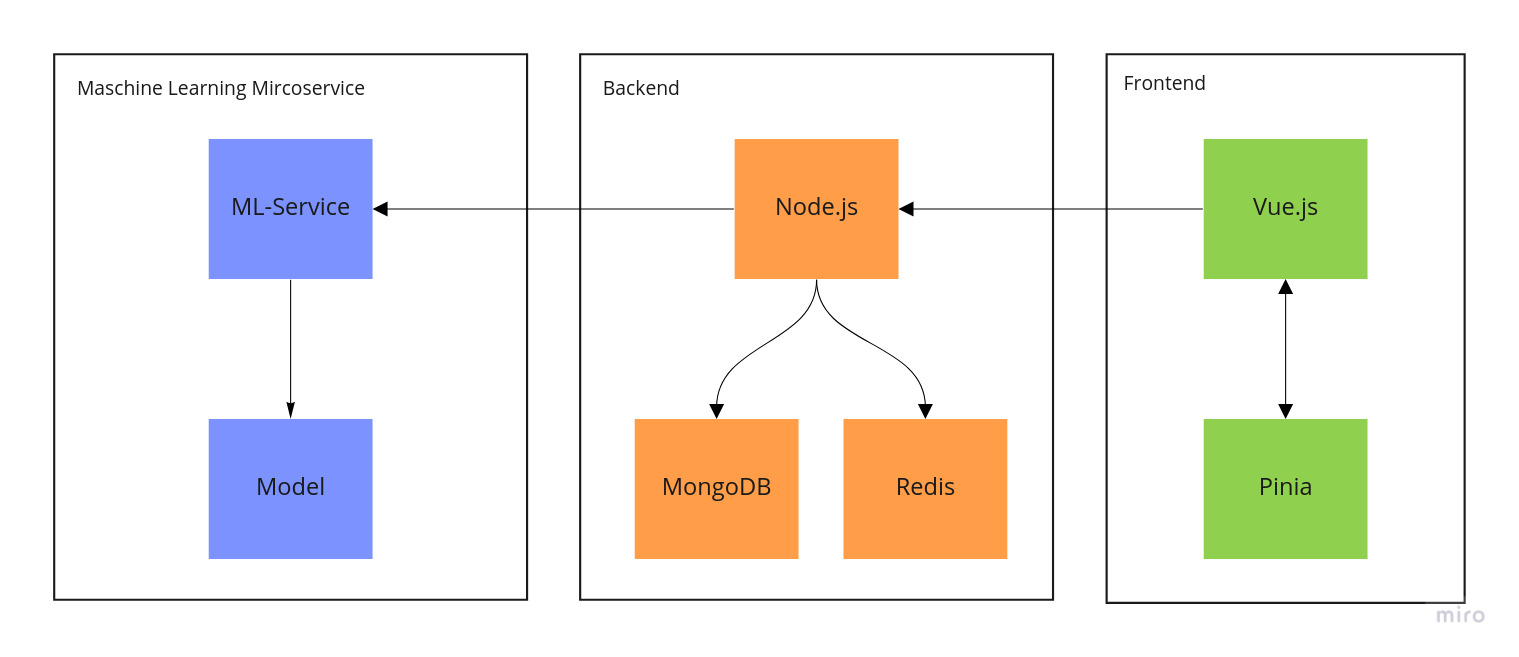
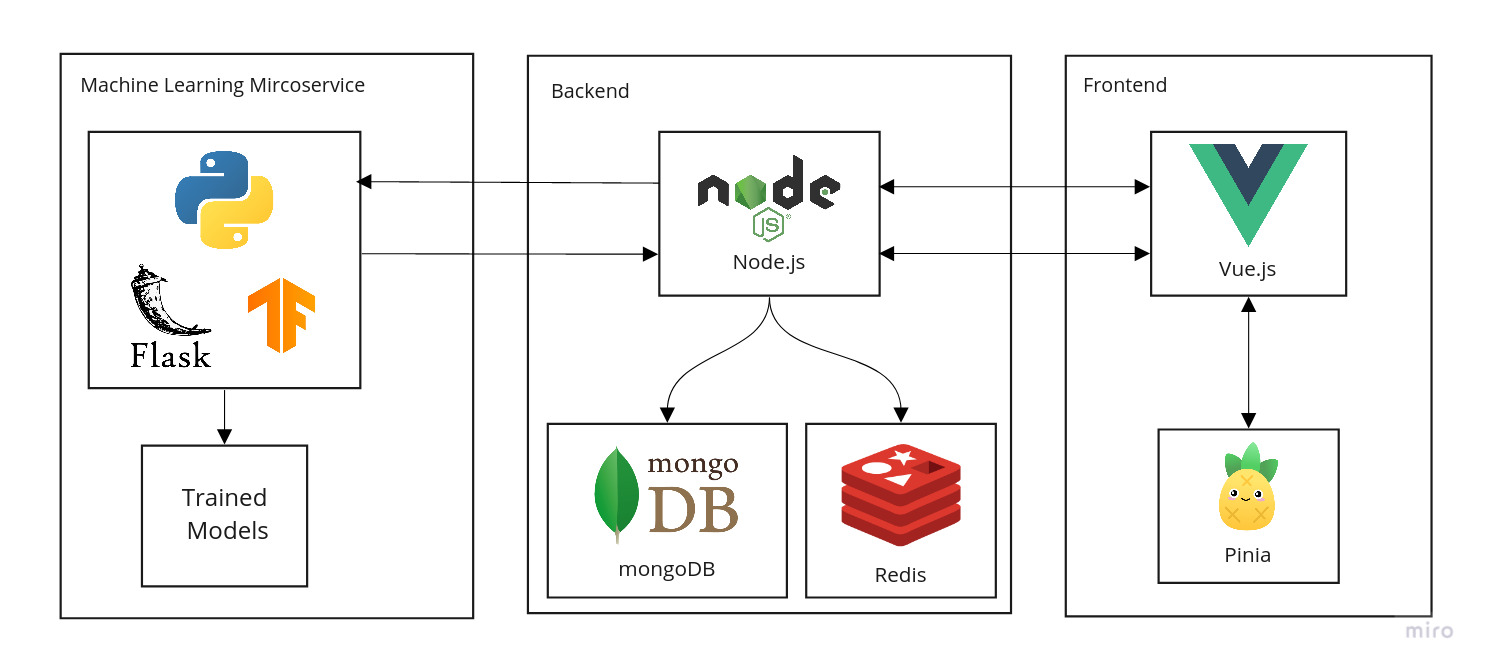
added techstack texts

diff --git a/content/ss22/master/m6-allmende-2/tech-stack.md b/content/ss22/master/m6-allmende-2/tech-stack.md
@@ -3,15 +3,21 @@ title = "Tech Stack"
 weight = 3
 +++
 
-{{<section title="Architecture">}}
 
-{{<image src="architecture.jpg" alt="architecture" caption="architecture">}}
-
-<!-- TODO: add Text here -->
-
-{{</section>}}
 
 {{<image src="techstack.png" alt="Tech Stack">}}
+
+{{<section title="Architecture">}}
+{{<image src="architecture.jpg" alt="architecture" caption="architecture">}}
+
+The architecture is seperated into three layers: Machine Learning Mircoservice, Backend and Frontend. 
+The Machine Learning Mircoservice get requests from the Backend with an image that should be classified. Inside the Machine Learning Mircoservie a Flask instance is running to handle requests from the Backend. When a image should be classified the TensorFlow Model uses our trained models to classify the image and sends a response with information about which animal could be classified.
+
+In the Backend we use Node.js in combination with express. The Node.js Backend provides a Rest API for the Frontend. The Node.js environment communicates with mongoDB to persists data and uses an instance of Redis to save the session cookies.
+
+The Frontend communicated with the Backend to persist or to request data. Therefore we used Vue.js to create a Single Page Application. To save global state like user information during the visition on the site we used Pinia.
+
+{{</section>}}
 
 {{<section title="Communication & Organisation">}}
 
@@ -31,9 +37,15 @@ GitHub allowed us to easily work together on the application by using the versio
 {{<section title="Frontend">}}
 ## VueJS
 
+We used VueJS as the fontend JavaScript Framework to seperate our Buisness Logic into Vue Components.Inside of the Vue Components we used the Composition API to make the code more readable for us. For navigation we used VueRouter. 
+
 ## Pinia
 
+For Statemanagements inside the Vue Application we used Pinia as a more modern version of Vuex. 
+
 ## TypeScript
+
+We used TypeScript as our frontend programming language.
 
 {{</section>}}
 
@@ -43,6 +55,8 @@ GitHub allowed us to easily work together on the application by using the versio
 
 ## TypeScript
 
+For the Backend we used TypeScript as our main programming language. 
+
 ## MongoDB
 
 ## Redis
@@ -51,7 +65,9 @@ GitHub allowed us to easily work together on the application by using the versio
 
 {{</section>}}
 
-{{<section title="Maschine Learning">}}
+{{<section title="Machine Learning">}}
+## Flask
+
 ## TensorFlow
 
 ## Google Collab

diff --git a/content/ss22/master/m6-allmende-2/_index.md b/content/ss22/master/m6-allmende-2/_index.md
@@ -7,7 +7,7 @@ card_image = "button.png"
 card_description = "Explore the Nature around you! With our new Web Application Allmende you can track and share your discoveries with fellow nature enthusiasts! With advanced Deep Learning Technology you can identify your discoveries via your own pictures and learn more about your local flora and fauna. Track your sightings on your personal map and explore where other people made exciting discoveries."
 
 source_link = "https://github.com/allmende-app/allmende"
-team = ["Cong Nguyen", "Minh Le", "Stefan Böhnert", "Jonas Fischer", "Julian Gaibler", "Ilhalm Muhammad"]
+team = ["Cong Nguyen", "Vu Minh Le", "Stefan Böhnert", "Jonas Fischer", "Julian Gaibler", "Ilhalm Muhammad"]
 
 supervisor = "David Müller"
 +++
